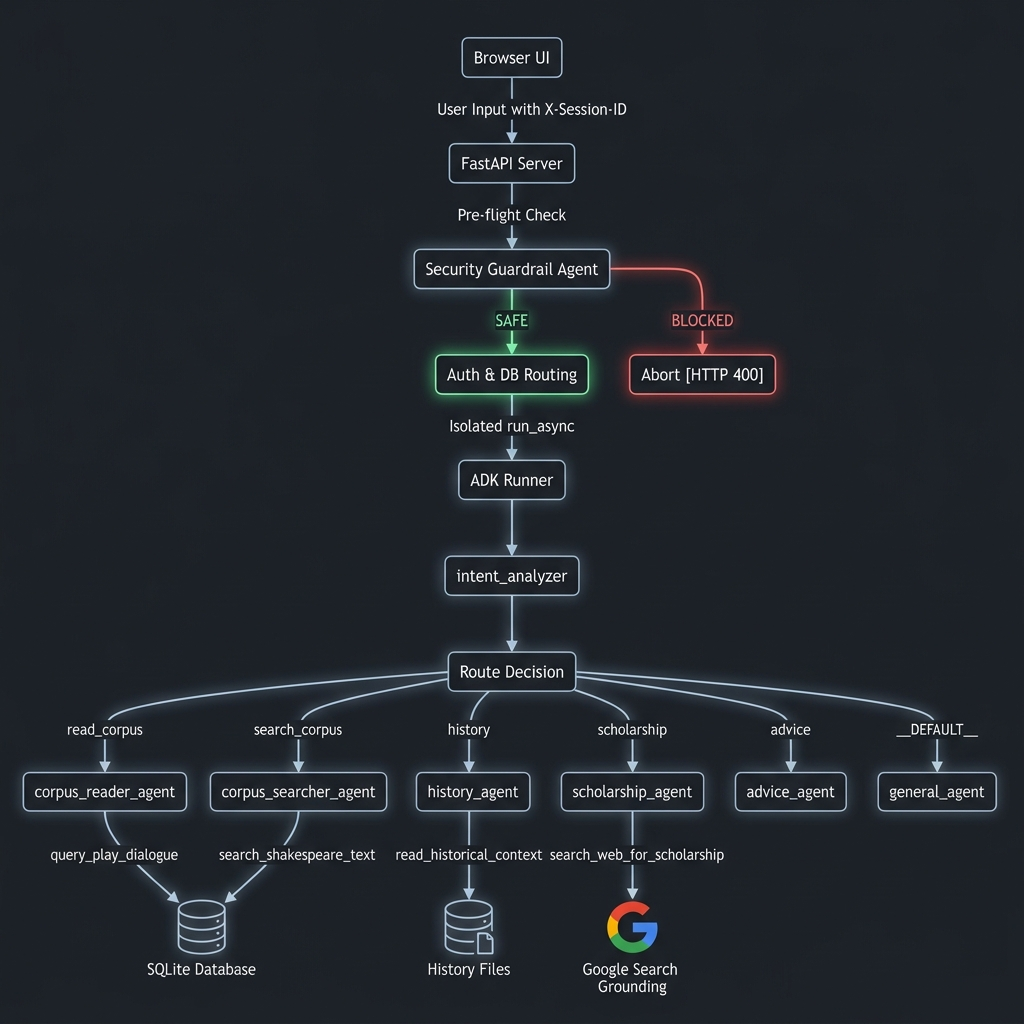
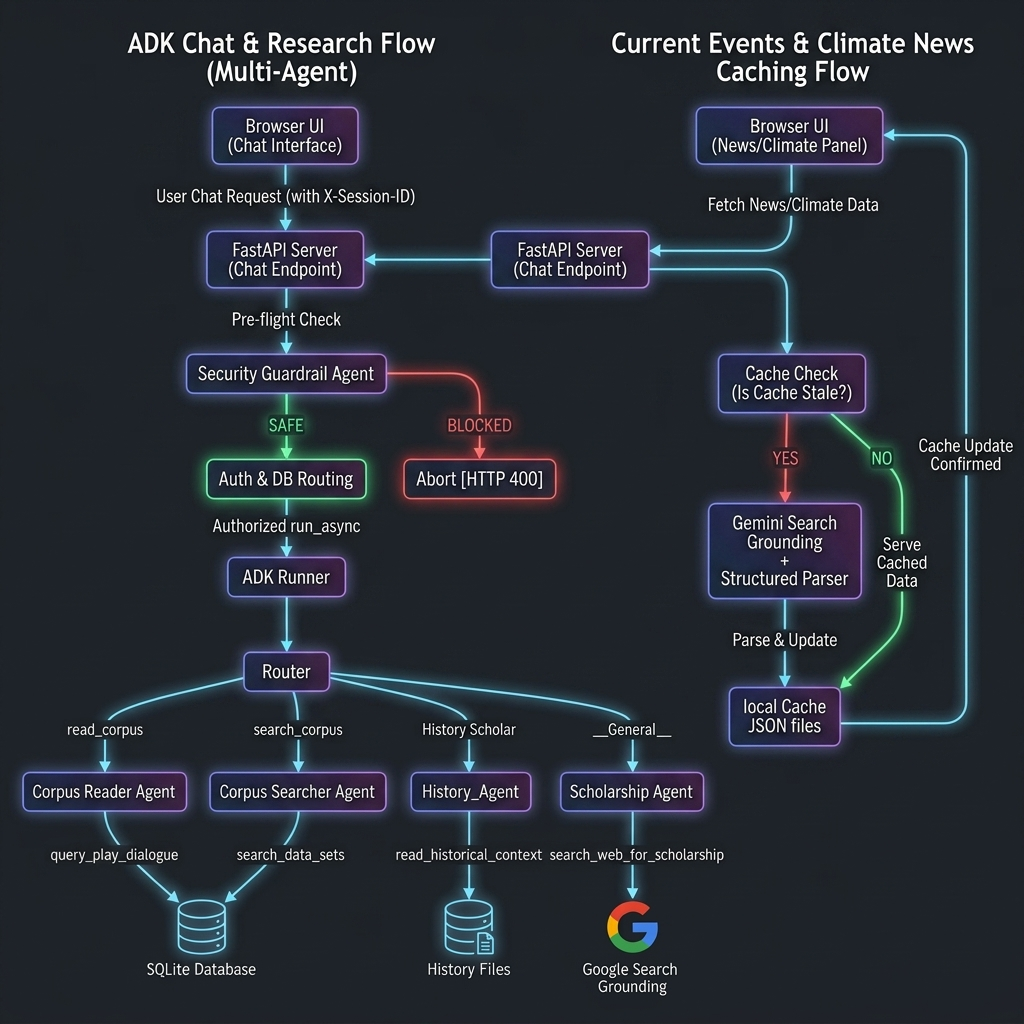
Update architecture diagram and README to include the news and climate caching flow

diff --git a/README.md b/README.md
@@ -35,6 +35,7 @@ The system coordinates conversational intents and tool execution via the followi
 
 ```mermaid
 graph TD
+    %% Chat Flow
     Client[Browser UI] -->|User Input with X-Session-ID| Backend[FastAPI Server]
     Backend -->|Pre-flight Check| SecAgent[Security Guardrail Agent]
     SecAgent -->|SAFE| AuthCheck{Auth & DB Routing}
@@ -53,6 +54,14 @@ graph TD
     CorpusSearcher -->|search_shakespeare_text| DB
     HistoryScholar -->|read_historical_context| MarkdownFiles[(History Files)]
     ScholarshipAgent -->|search_web_for_scholarship| GoogleSearch[Gemini Google Search Grounding]
+
+    %% News & Climate Caching Flow
+    Client -->|Fetch News / Climate| Backend
+    Backend -->|Check Cache Age| CacheCheck{Is Cache Stale?}
+    CacheCheck -->|YES| GenGrounding[Gemini Search Grounding + Structured Parser]
+    GenGrounding -->|Write Cache JSON| CacheFile[(Local Cache JSON Files)]
+    CacheCheck -->|NO / Read| CacheFile
+    CacheFile -->|Return Structured Stories| Client
 ```
 
 ![Shakespeare AI Architecture Graph](architecture_graph.png)